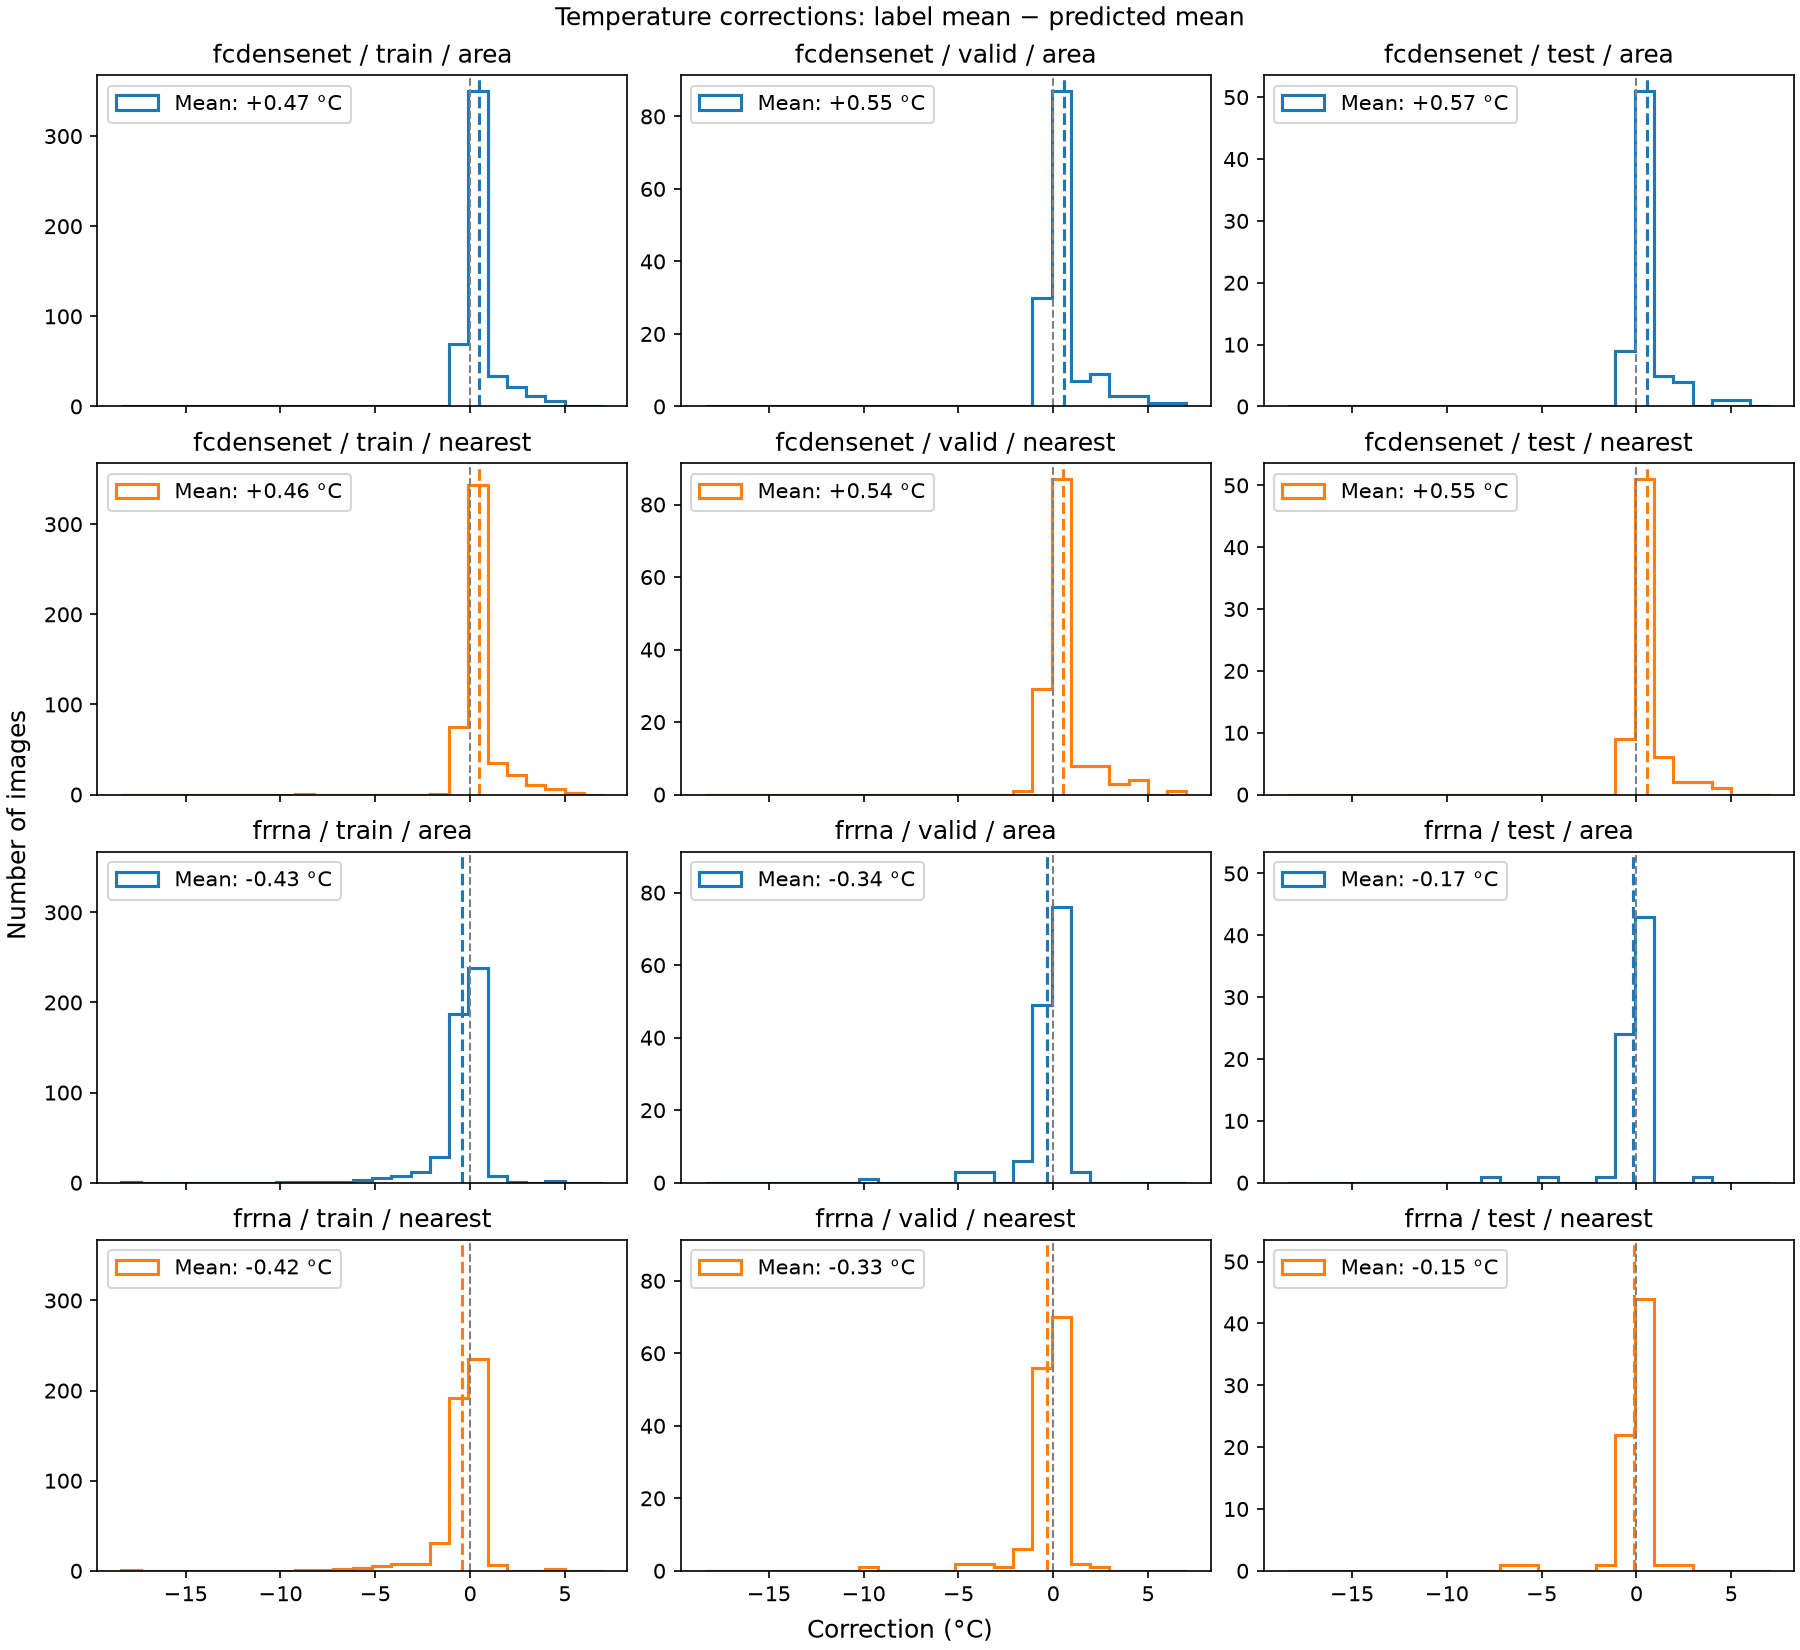
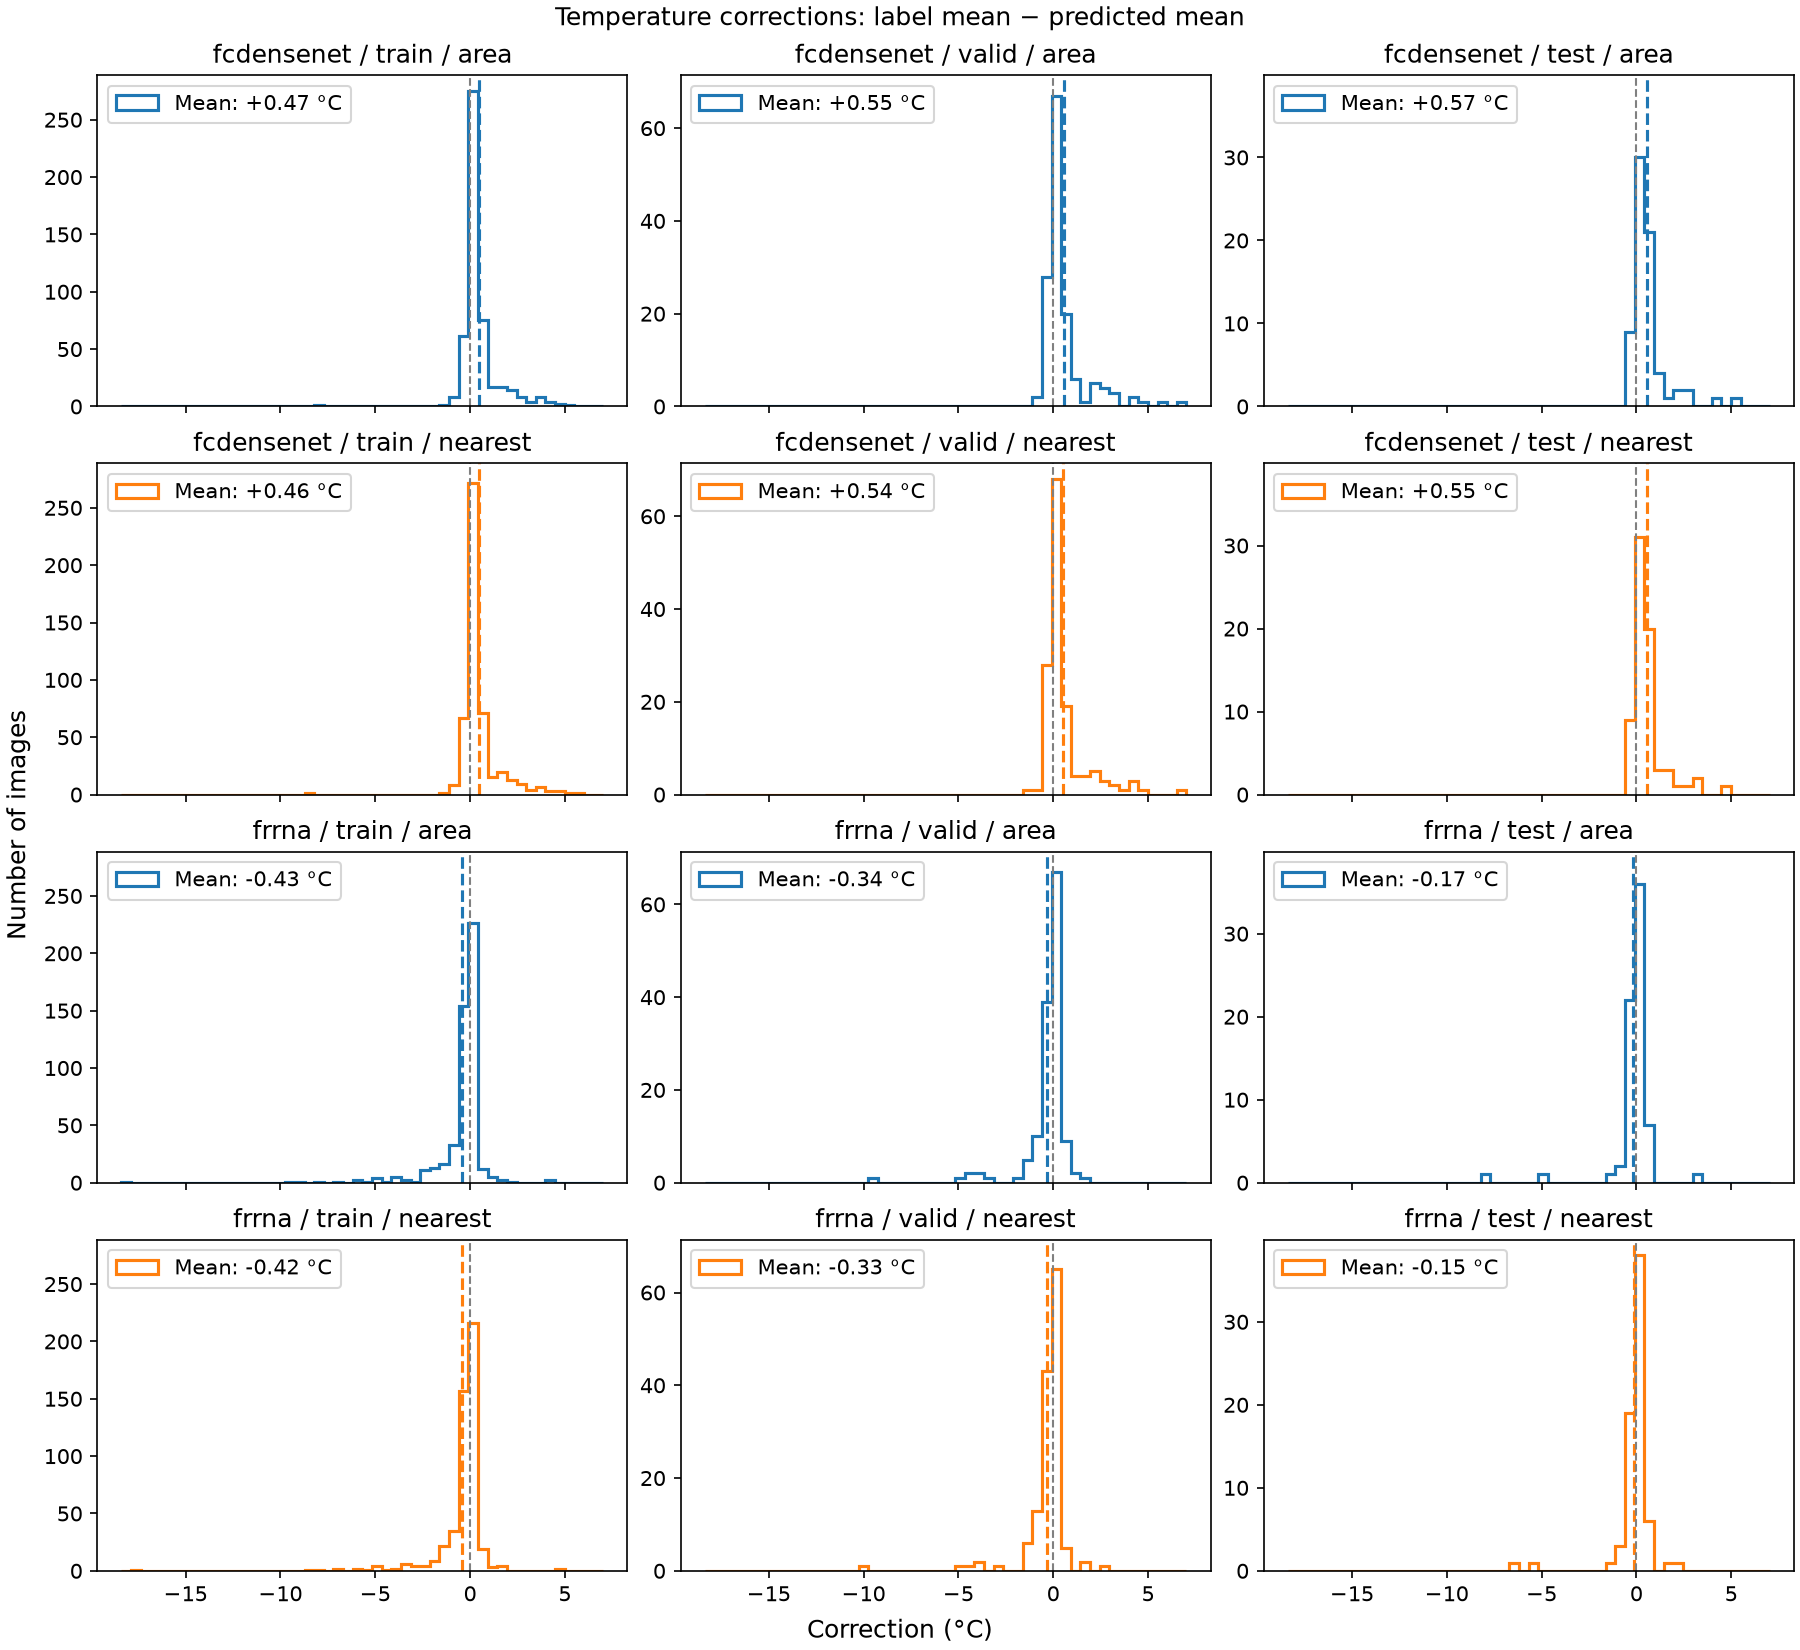
updated figures

diff --git a/regression/correction_visualization.py b/regression/correction_visualization.py
@@ -18,13 +18,13 @@ def main():
     }
     all_temperatures = np.concatenate([data.ravel() for data in temperature_data.values()])
     mean_bins = np.histogram_bin_edges(
-        all_temperatures[np.isfinite(all_temperatures)], bins=25
+        all_temperatures[np.isfinite(all_temperatures)], bins=50
     )
     all_corrections = np.concatenate([
         data[:, 0] - data[:, 1] for data in temperature_data.values()
     ])
     correction_bins = np.histogram_bin_edges(
-        all_corrections[np.isfinite(all_corrections)], bins=25
+        all_corrections[np.isfinite(all_corrections)], bins=50
     )
     fig, axes = plt.subplots(
         4, 3, figsize=(12, 11), sharex=True, sharey="col", layout="constrained"
